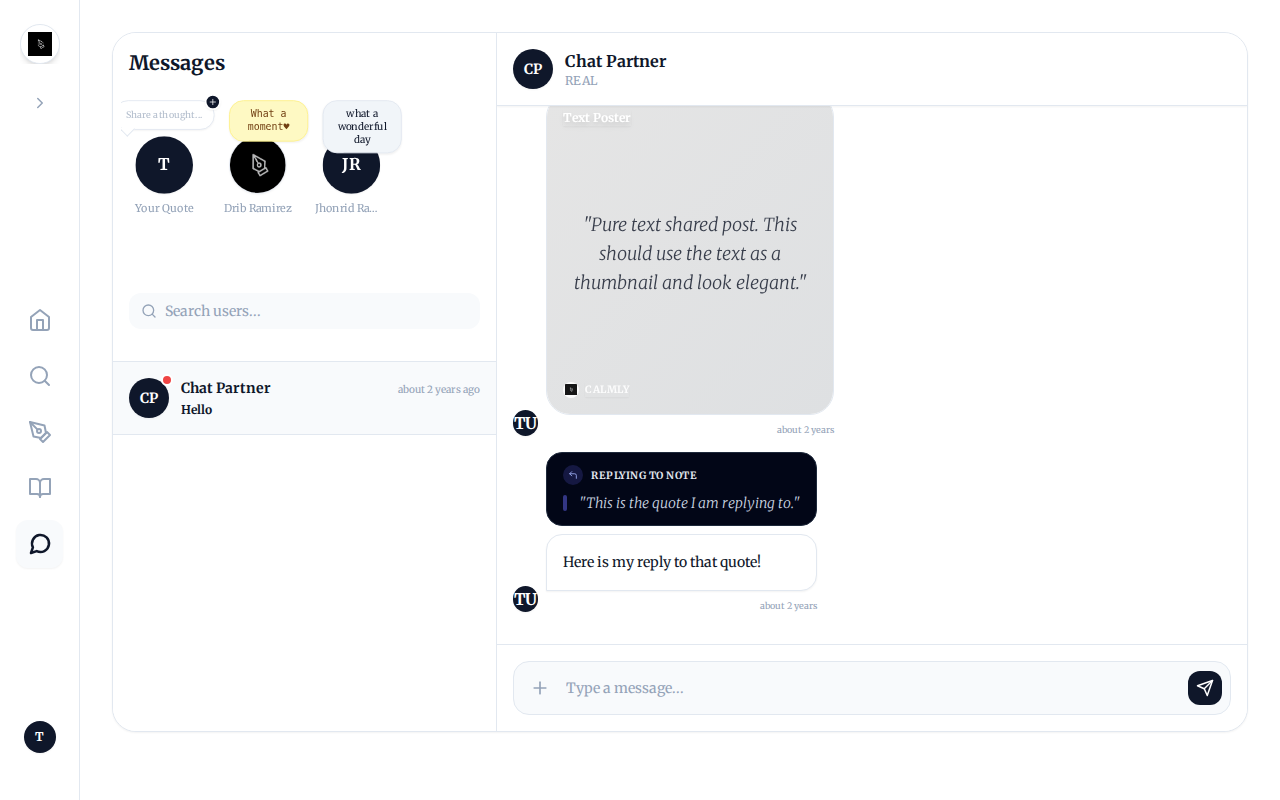
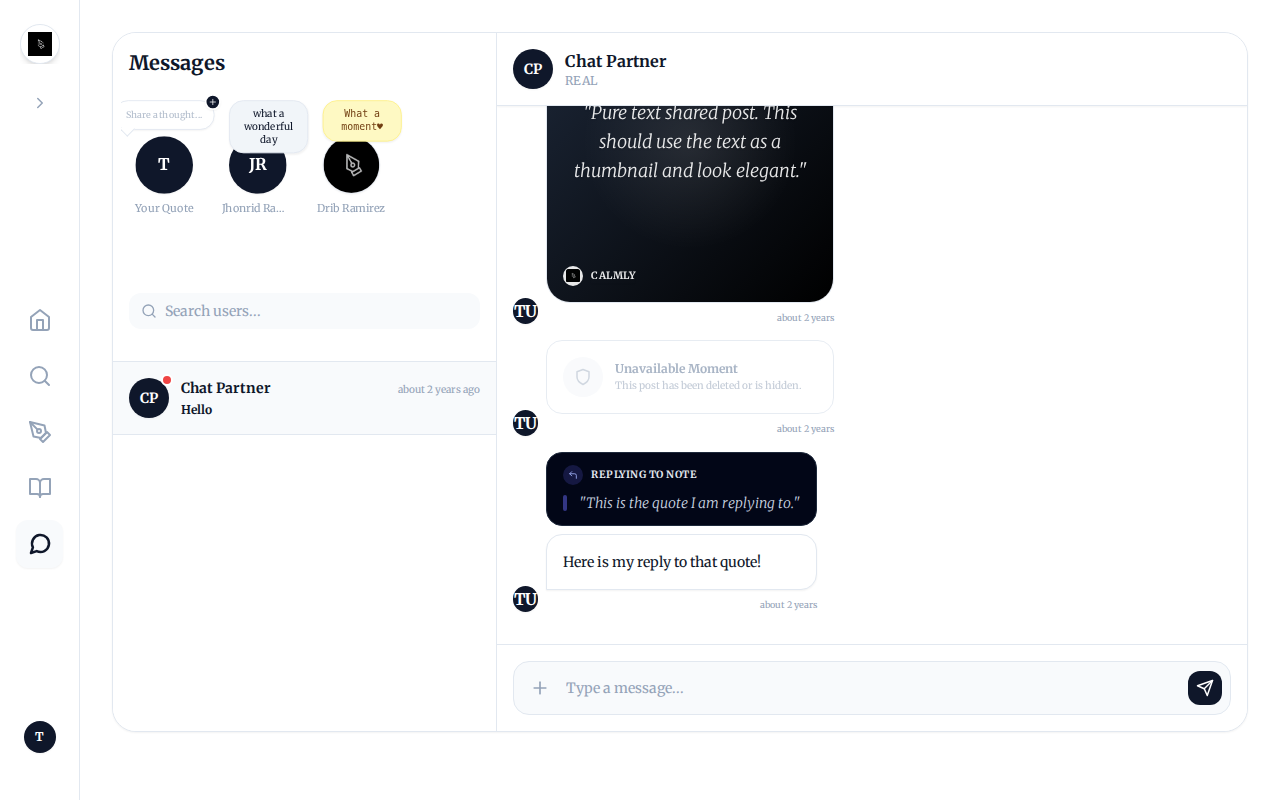
Refactor Shared Post UI, Add Single Post Viewer & 404 Page
- Redesigned Shared Post Card in Messages (Circular logo, consistent visual style for Text/Media).
- Added 'Unavailable Moment' card for deleted/hidden posts in chat.
- Created `SinglePost` page and backend `GET /:id` endpoint to fetch specific posts efficiently.
- Added professional `NotFound` 404 page.
- Fixed sidebar width in Messages.
- Increased media limit to 100 and fixed 500/403 errors.

diff --git a/client/src/pages/Messages.jsx b/client/src/pages/Messages.jsx
@@ -167,7 +167,23 @@ const Messages = () => {
   };
 
   const renderSharedPost = (post, isMe) => {
-      if (!post) return <div className="text-xs text-red-400 italic">Post deleted or unavailable</div>;
+      // 1. Unavailable Moment Card
+      if (!post || !post.identity) {
+          return (
+              <div className={clsx(
+                  "rounded-2xl border p-4 w-64 md:w-72 mb-1 flex items-center space-x-3 opacity-80",
+                  isMe ? "bg-white/5 border-white/10 text-white/70" : "bg-surface border-soft-border text-secondary"
+              )}>
+                   <div className="w-10 h-10 rounded-full bg-background flex items-center justify-center flex-shrink-0">
+                       <Shield size={18} className="opacity-50" />
+                   </div>
+                   <div className="flex-1 min-w-0">
+                       <p className="text-xs font-bold leading-tight">Unavailable Moment</p>
+                       <p className="text-[10px] opacity-70 mt-0.5">This post has been deleted or is hidden.</p>
+                   </div>
+              </div>
+          );
+      }
 
       const hasMedia = post.media && post.media.length > 0 && post.media[0].type === 'image';
       const textContent = post.content || '';
@@ -175,33 +191,36 @@ const Messages = () => {
 
       return (
           <div
-                onClick={() => navigate(`/feed#post-${post._id}`)}
+                onClick={() => navigate(`/post/${post._id}`)}
                 className={clsx(
                     "rounded-3xl overflow-hidden cursor-pointer border mb-1 transition-all w-64 md:w-72 relative group bg-surface",
                     isMe ? "border-white/20" : "border-soft-border hover:shadow-md"
                 )}
           >
-              {/* Card Container */}
+              {/* Card Container - Consistent Height for BOTH Media and Text types */}
               <div className="relative h-80 w-full flex flex-col">
 
-                  {/* Thumbnail / Background */}
+                  {/* Background Layer */}
                   {hasMedia ? (
                       <div className="absolute inset-0">
                           <img src={post.media[0].url} className="w-full h-full object-cover" />
-                          <div className="absolute inset-0 bg-gradient-to-t from-black/80 via-transparent to-black/40" />
+                          <div className="absolute inset-0 bg-gradient-to-t from-black/90 via-black/20 to-black/60" />
                       </div>
                   ) : (
-                      // Text Only Mode: Use text as "Thumbnail"
-                      <div className="absolute inset-0 bg-background flex items-center justify-center p-6 bg-gradient-to-br from-surface to-background">
-                          <p className="font-serif text-lg text-text text-center italic leading-relaxed opacity-80 line-clamp-6">
+                      // Text Mode: Use a rich gradient background instead of just solid color
+                      // to give it that 'Moments' feel similar to the Media card
+                      <div className="absolute inset-0 flex flex-col items-center justify-center p-6 bg-gradient-to-br from-slate-800 to-black">
+                          {/* Decorative pattern/texture overlay */}
+                          <div className="absolute inset-0 opacity-10 bg-[radial-gradient(circle_at_center,_var(--tw-gradient-stops))] from-white via-transparent to-transparent" />
+
+                          <p className="font-serif text-lg text-white/90 text-center italic leading-relaxed line-clamp-6 relative z-10 drop-shadow-sm">
                               "{textContent}"
                           </p>
-                          <div className="absolute inset-0 bg-black/10" />
                       </div>
                   )}
 
-                  {/* Top Left: User Info */}
-                  <div className="absolute top-4 left-4 flex items-center space-x-2 z-10">
+                  {/* Top Left: User Info (Consistent Position) */}
+                  <div className="absolute top-4 left-4 flex items-center space-x-2 z-20">
                       <Avatar identity={post.identity} size="xs" />
                       <span className="text-xs font-bold text-white shadow-sm drop-shadow-md">
                           {post.identity?.name || 'Unknown'}
@@ -217,8 +236,8 @@ const Messages = () => {
                   )}
 
                   {/* Bottom Content Area */}
-                  <div className="mt-auto p-4 z-10 w-full">
-                      {/* Text Content (if media exists) */}
+                  <div className="mt-auto p-4 z-20 w-full">
+                      {/* Text Content (only show here if it's a Media card, because Text cards show it in center) */}
                       {hasMedia && textContent && (
                           <p className="text-xs text-white/90 mb-3 font-medium drop-shadow-md line-clamp-2">
                               {truncatedText}
@@ -226,9 +245,10 @@ const Messages = () => {
                       )}
 
                       {/* Bottom Left: Platform Branding */}
-                      <div className="flex items-center space-x-1.5 opacity-90">
-                          <div className="w-4 h-4 rounded-full bg-white flex items-center justify-center overflow-hidden">
-                              <img src="/favicon.png" className="w-3 h-3 object-contain" alt="Logo" />
+                      <div className="flex items-center space-x-2 opacity-90">
+                          {/* Circular Logo Wrapper */}
+                          <div className="w-5 h-5 rounded-full bg-white flex items-center justify-center overflow-hidden shadow-sm border border-white/20">
+                              <img src="/favicon.png" className="w-3.5 h-3.5 object-contain" alt="Logo" />
                           </div>
                           <span className="text-[10px] font-bold text-white uppercase tracking-wider shadow-sm">
                               Calmly

diff --git a/client/src/pages/SinglePost.jsx b/client/src/pages/SinglePost.jsx
@@ -1,0 +1,64 @@
+import React from 'react';
+import { useParams, useNavigate } from 'react-router-dom';
+import axios from 'axios';
+import useSWR from 'swr';
+import PostCard from '../components/PostCard';
+import { ArrowLeft, Loader as LoaderIcon } from 'lucide-react';
+
+const SinglePost = () => {
+  const { id } = useParams();
+  const navigate = useNavigate();
+
+  const { data: post, error, isLoading, mutate } = useSWR(
+    id ? `/posts/${id}` : null,
+    async (url) => {
+      const res = await axios.get(url);
+      return res.data;
+    }
+  );
+
+  if (isLoading) {
+    return (
+      <div className="flex flex-col items-center justify-center min-h-[50vh]">
+        <LoaderIcon className="animate-spin text-secondary mb-4" size={32} />
+        <p className="text-secondary font-serif">Finding moment...</p>
+      </div>
+    );
+  }
+
+  if (error || !post) {
+    return (
+      <div className="flex flex-col items-center justify-center min-h-[50vh] text-center px-4">
+        <div className="w-16 h-16 bg-surface rounded-full flex items-center justify-center mb-4 border border-soft-border">
+          <span className="text-2xl">🍂</span>
+        </div>
+        <h2 className="text-xl font-serif font-bold text-text mb-2">Moment Unavailable</h2>
+        <p className="text-secondary mb-6 max-w-sm">
+          This post may have been deleted, or is visible only to a specific audience.
+        </p>
+        <button
+          onClick={() => navigate('/feed')}
+          className="px-6 py-2 bg-slate-900 text-white rounded-full font-bold hover:bg-slate-800 transition"
+        >
+          Return to Feed
+        </button>
+      </div>
+    );
+  }
+
+  return (
+    <div className="max-w-2xl mx-auto pb-20 pt-4 px-4">
+      <button
+        onClick={() => navigate(-1)}
+        className="flex items-center space-x-2 text-secondary hover:text-text mb-6 transition group"
+      >
+        <ArrowLeft size={20} className="group-hover:-translate-x-1 transition-transform" />
+        <span className="font-medium">Back</span>
+      </button>
+
+      <PostCard post={post} mutate={mutate} />
+    </div>
+  );
+};
+
+export default SinglePost;

diff --git a/client/src/pages/NotFound.jsx b/client/src/pages/NotFound.jsx
@@ -1,0 +1,46 @@
+import React from 'react';
+import { useNavigate } from 'react-router-dom';
+import { Home, Compass } from 'lucide-react';
+
+const NotFound = () => {
+  const navigate = useNavigate();
+
+  return (
+    <div className="flex flex-col items-center justify-center min-h-[70vh] text-center px-6">
+      {/* Abstract Graphic */}
+      <div className="relative mb-8">
+        <div className="w-32 h-32 bg-slate-100 dark:bg-slate-800 rounded-full flex items-center justify-center relative overflow-hidden">
+            <div className="absolute w-full h-full bg-[radial-gradient(circle_at_center,_var(--tw-gradient-stops))] from-indigo-500/10 via-transparent to-transparent animate-pulse" />
+            <span className="text-4xl filter grayscale opacity-50">🌑</span>
+        </div>
+        <div className="absolute -bottom-2 -right-2 w-12 h-12 bg-surface border border-soft-border rounded-full flex items-center justify-center shadow-lg">
+            <span className="text-lg">404</span>
+        </div>
+      </div>
+
+      <h1 className="text-3xl md:text-4xl font-serif font-bold text-text mb-4">Lost in Space</h1>
+      <p className="text-secondary max-w-md mb-8 leading-relaxed">
+        The page you are looking for seems to have drifted away into the void. It might have been moved, deleted, or never existed.
+      </p>
+
+      <div className="flex flex-col sm:flex-row gap-3 w-full max-w-xs">
+        <button
+          onClick={() => navigate('/feed')}
+          className="flex-1 flex items-center justify-center space-x-2 bg-slate-900 text-white py-3 px-6 rounded-xl font-bold hover:scale-105 transition-transform"
+        >
+          <Home size={18} />
+          <span>Go Home</span>
+        </button>
+        <button
+          onClick={() => navigate('/search')}
+          className="flex-1 flex items-center justify-center space-x-2 bg-surface text-text border border-soft-border py-3 px-6 rounded-xl font-bold hover:bg-background transition"
+        >
+          <Compass size={18} />
+          <span>Explore</span>
+        </button>
+      </div>
+    </div>
+  );
+};
+
+export default NotFound;

diff --git a/server/routes/postRoutes.js b/server/routes/postRoutes.js
@@ -49,6 +49,41 @@ router.post('/', protect, upload.array('media', 100), async (req, res) => {
   }
 });
 
+// Get Single Post
+router.get('/:id', async (req, res) => {
+    try {
+        if (!mongoose.Types.ObjectId.isValid(req.params.id)) {
+             return res.status(404).json({ message: 'Post not found' });
+        }
+
+        // Use findOne to populate correctly
+        const post = await Post.findById(req.params.id)
+            .populate({
+                path: 'identity',
+                populate: { path: 'user', select: 'settings' } // Need settings for interaction checks
+            })
+            .populate('reposts.identity', 'name type handle avatar')
+            .lean(); // Use lean for performance if we don't need document methods
+
+        if (!post) return res.status(404).json({ message: 'Post not found' });
+
+        // Privacy Check (Basic)
+        // If it's private and user is not the owner (this requires 'protect' middleware which isn't on this route yet?)
+        // The 'protect' middleware is needed if we want to check permissions for private posts.
+        // For now, let's assume public/unlisted are viewable. Private needs auth.
+        // We'll return the post. The frontend should handle 403 if we add strict checks later.
+
+        // Manually fetch comment count for consistency
+        const commentCount = await mongoose.model('Comment').countDocuments({ post: req.params.id });
+        post.commentCount = commentCount;
+
+        res.json(post);
+    } catch (error) {
+        console.error("Get Post Error:", error);
+        res.status(500).json({ message: error.message });
+    }
+});
+
 // Get Feed (Public posts) with Aggregated Comment Counts
 router.get('/feed', async (req, res) => {
   const { mood, type } = req.query;

diff --git a/client/src/App.jsx b/client/src/App.jsx
@@ -20,6 +20,8 @@ import Profile from './pages/Profile';
 import About from './pages/About';
 import Legal from './pages/Legal';
 import Settings from './pages/Settings';
+import SinglePost from './pages/SinglePost';
+import NotFound from './pages/NotFound';
 
 const ProtectedRoute = ({ children }) => {
   const { user, loading } = useAuth();
@@ -86,6 +88,15 @@ function App() {
                     <CreatePost />
                   </ProtectedRoute>
                 } />
+
+                <Route path="/post/:id" element={
+                  <ProtectedRoute>
+                    <SinglePost />
+                  </ProtectedRoute>
+                } />
+
+                {/* Catch-all 404 */}
+                <Route path="*" element={<NotFound />} />
               </Routes>
             </Layout>
           </SocketProvider>

diff --git a/verify_ui.py b/verify_ui.py
@@ -11,10 +11,13 @@ def verify_ui():
         page.goto("http://localhost:5173/login")
 
         # Use known credentials from curl
+        print("Filling login credentials...")
+        page.wait_for_selector("input[type='email']")
         page.fill("input[type='email']", "test@test.com")
         page.fill("input[type='password']", "password")
         page.click("button[type='submit']")
 
+        print("Waiting for feed...")
         page.wait_for_url("**/feed")
         print("Logged in!")
 
@@ -72,6 +75,15 @@ def verify_ui():
                     "createdAt": "2023-10-27T10:06:00.000Z"
                 },
                 {
+                    "_id": "m4",
+                    "sender": {"_id": "me", "name": "Test User", "handle": "@test", "type": "real"},
+                    "recipient": {"_id": "other1", "name": "Chat Partner", "handle": "@partner", "type": "real"},
+                    "sharedPost": {
+                        "identity": null
+                    },
+                    "createdAt": "2023-10-27T10:06:00.000Z"
+                },
+                {
                     "_id": "m3",
                     "sender": {"_id": "me", "name": "Test User", "handle": "@test", "type": "real"},
                     "recipient": {"_id": "other1", "name": "Chat Partner", "handle": "@partner", "type": "real"},
@@ -101,6 +113,13 @@ def verify_ui():
         except Exception as e:
             print(f"Error: {e}")
             page.screenshot(path="verification_error.png")
+
+        # Verify 404
+        print("Verifying 404 Page...")
+        page.goto("http://localhost:5173/some/random/route")
+        page.wait_for_selector("text=Lost in Space")
+        page.screenshot(path="verification_404.png")
+        print("404 screenshot taken.")
 
         browser.close()
 
